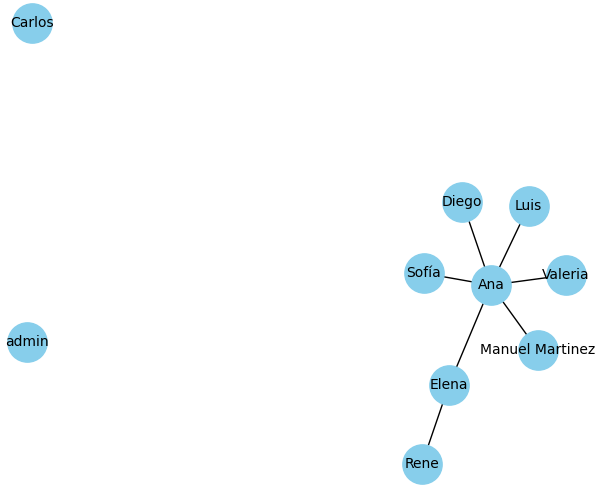
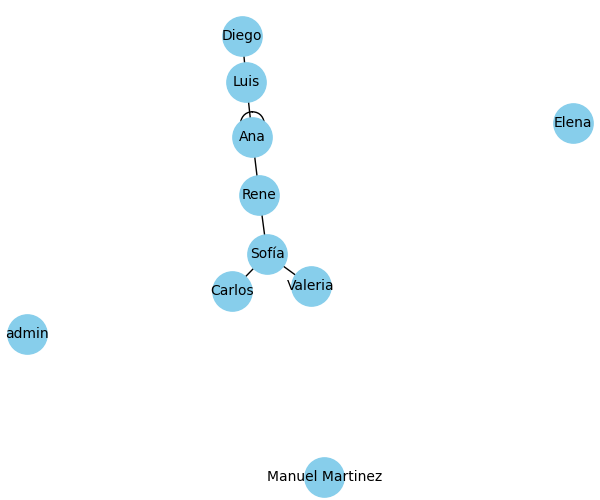
add interaciones

diff --git a/red_social_app/app.py b/red_social_app/app.py
@@ -6,6 +6,7 @@ import mysql.connector
 from datetime import date
 from mysql.connector import Error
 import heapq
+import os
 from collections import deque
 
 # ✅ Prueba de conexión inicial a la base de datos
@@ -164,9 +165,9 @@ def updatecomun():
     lista=[]
     db = get_db()
     cursor = db.cursor(dictionary=True)
-    cursor.execute("SELECT p.id,p.id_autor,l.id_usuario, COUNT(l.id) as peso FROM publicaciones p, likes l where p.id=l.publicacion_id group by 1 "+
-                   " UNION ALL "+
-                   "SELECT p.id,p.id_autor,d.id_usuario, COUNT(d.id) as peso FROM  publicaciones p, dislikes d where p.id=d.publicacion_id group by 1")
+    cursor.execute("""
+                   SELECT p.id,p.id_autor,l.id_usuario, COUNT(l.id) as peso FROM publicaciones p, interacciones l where p.id=l.publicacion_id group by 1,3 
+                   """)
     comunes = cursor.fetchall()
     acum=0
     if comunes:
@@ -217,6 +218,7 @@ def borrarCosasEnComun():
     conexion.close()
 
 def crearCosasEnComun(idAutor,idUsuario,peso):
+    print(f"autor: {idAutor} usuario:{idUsuario} peso: {peso}")
     conexion = get_db()
     cursor = conexion.cursor()
     cursor.execute("INSERT INTO cosas_en_comun (persona1_id, persona2_id, peso) VALUES (%s, %s, %s)", (idAutor, idUsuario,peso))
@@ -329,7 +331,7 @@ def red():
     for p in personas:
         G.add_node(p["id"], label=p["nombre"])
     for e in enlaces:
-        G.add_edge(e["persona1_id"], e["persona2_id"], interes=e["interes"])
+        G.add_edge(e["persona1_id"], e["persona2_id"], peso=e["peso"])
 
     # 🎨 Visualización del grafo
     pos = nx.spring_layout(G, seed=42)
@@ -339,8 +341,10 @@ def red():
         labels=nx.get_node_attributes(G, 'label'),
         node_color='skyblue', node_size=800, font_size=10
     )
+    absolute_path = os.path.join(os.path.dirname(__file__), 'static', 'red.png')
+    
     plt.title("Red Social por Intereses")
-    plt.savefig("static/red.png")
+    plt.savefig(absolute_path)
     plt.close()
 
     return render_template('red.html', imagen="static/red.png")
@@ -397,8 +401,8 @@ def publicaciones():
     # 📥 Consulta publicaciones con nombre del autor + conteo de likes y dislikes
     cursor.execute("""
         SELECT p.id, p.contenido, p.id_autor, per.nombre AS autor, p.fecha,
-               (SELECT COUNT(*) FROM likes WHERE publicacion_id = p.id) AS likes,
-               (SELECT COUNT(*) FROM dislikes WHERE publicacion_id = p.id) AS dislikes
+               (SELECT COUNT(*) FROM interacciones WHERE publicacion_id = p.id and tipo=1) AS likes,
+               (SELECT COUNT(*) FROM interacciones WHERE publicacion_id = p.id and tipo=2) AS dislikes
         FROM publicaciones p
         JOIN personas per ON p.id_autor = per.id
         ORDER BY p.fecha DESC
@@ -419,13 +423,15 @@ def publicaciones():
 def dar_like(publicacion_id, id_usuario):
     conexion = get_db()
     cursor = conexion.cursor()
+    l=1
+    d=2
 
     # 🔘 Inserta registro en tabla "likes"
-    cursor.execute("INSERT INTO likes (publicacion_id, id_usuario) VALUES (%s, %s)", (publicacion_id, id_usuario))
+    cursor.execute("INSERT INTO interacciones (publicacion_id, id_usuario,tipo) VALUES (%s, %s, %s)", (publicacion_id, id_usuario, l))
     conexion.commit()
 
     # 🔢 Obtiene nuevo total de likes para esa publicación
-    cursor.execute("SELECT COUNT(*) FROM likes WHERE publicacion_id = %s", (publicacion_id,))
+    cursor.execute("SELECT COUNT(*) FROM interacciones WHERE publicacion_id = %s", (publicacion_id,))
     total = cursor.fetchone()[0]
     conexion.close()
 
@@ -437,13 +443,14 @@ def dar_like(publicacion_id, id_usuario):
 def dar_dislike(publicacion_id, id_usuario):
     conexion = get_db()
     cursor = conexion.cursor()
+    d=2
 
     # 🔘 Inserta registro en tabla "dislikes"
-    cursor.execute("INSERT INTO dislikes (publicacion_id, id_usuario) VALUES (%s, %s)", (publicacion_id, id_usuario))
+    cursor.execute("INSERT INTO interacciones (publicacion_id, id_usuario,tipo) VALUES (%s, %s, %s)", (publicacion_id, id_usuario, d))
     conexion.commit()
 
     # 🔢 Obtiene nuevo total de dislikes para esa publicación
-    cursor.execute("SELECT COUNT(*) FROM dislikes WHERE publicacion_id = %s", (publicacion_id,))
+    cursor.execute("SELECT COUNT(*) FROM interacciones WHERE publicacion_id = %s", (publicacion_id,))
     total = cursor.fetchone()[0]
     conexion.close()
 
